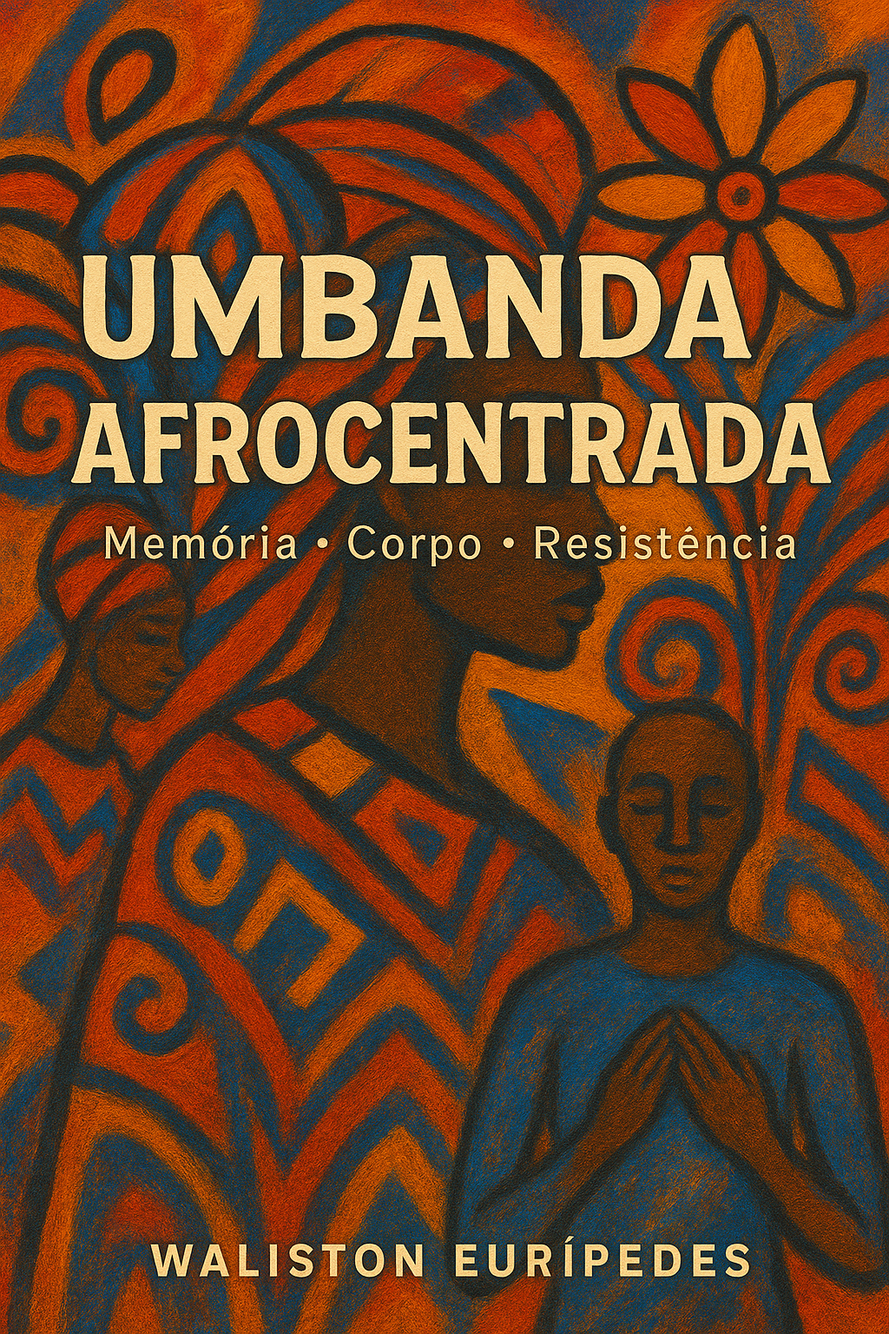
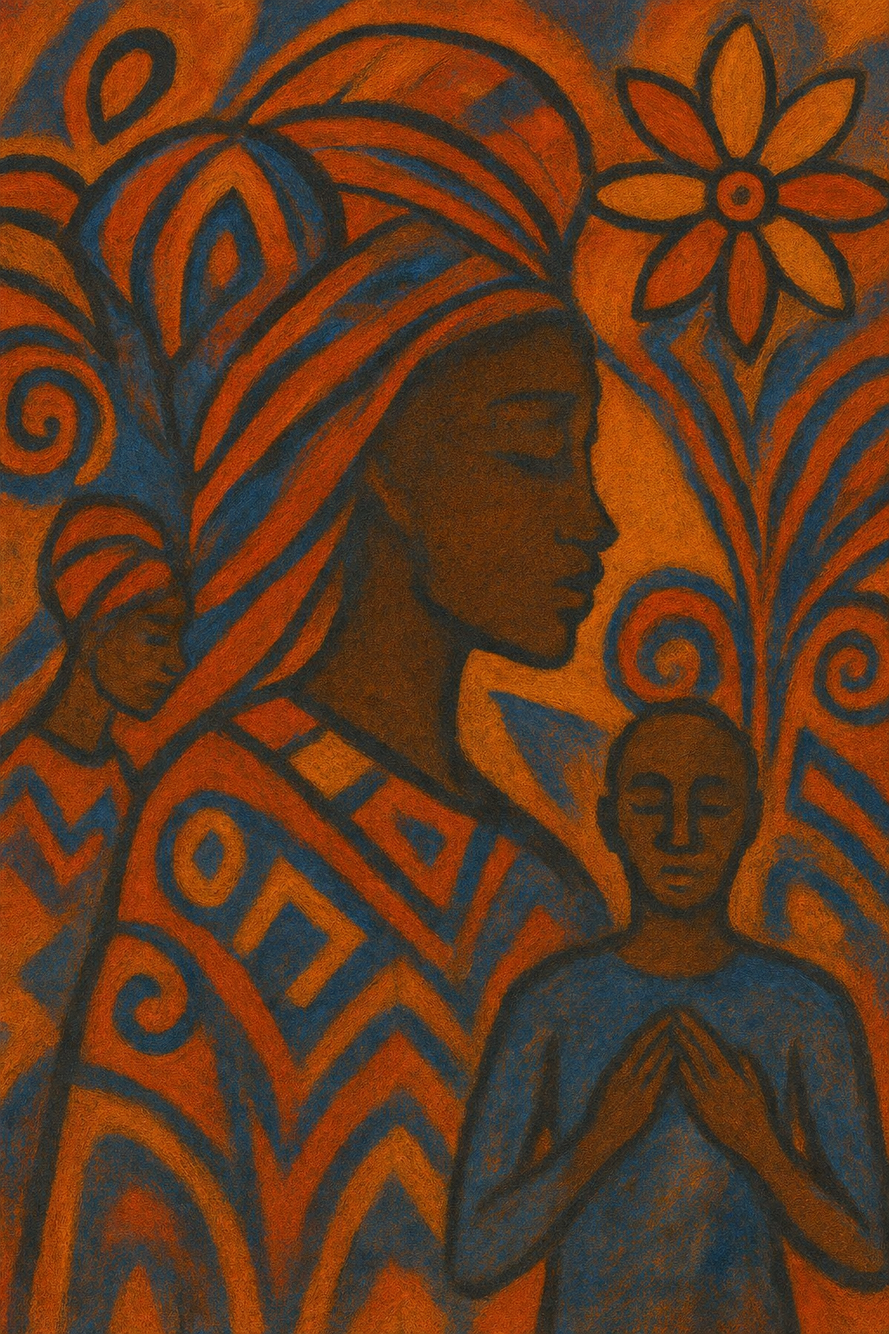
update front mobile

diff --git a/index.html b/index.html
@@ -10,8 +10,8 @@
     <header>
       <div class="container">
         <div class="header-content">
-          <div class="logo">UMBANDA <span>AFROCENTRADA</span></div>
-          <div class="logo">MEMÓRIA • CORPO • RESISTÊNCIA</div>
+          <div class="logo s1">UMBANDA <span>AFROCENTRADA</span></div>
+          <div class="logo s2">MEMÓRIA • CORPO • RESISTÊNCIA</div>
         </div>
       </div>
     </header>
@@ -119,46 +119,12 @@
                 </div>
               </section>
 
-              <div class="links-section">
-                  <div class="link-card">
-                    <div class="link-icon">💳</div>
-                    <h4 class="link-title">COMPRE COM CARTÃO</h4>
-                    <p class="link-desc">
-                      Adquira o livro completo em formato digital com pagamento
-                      por cartão de crédito
-                    </p>
-                    <a
-                      href="https://wesantos.gumroad.com/l/crlgpf"
-                      class="btn"
-                      id="cartao-btn"
-                      target="_blank"
-                      >COMPRAR AGORA</a
-                    >
-                  </div>
-
-                  <div class="link-card">
-                    <div class="link-icon">🧧</div>
-                    <h4 class="link-title">PAGUE COM PIX</h4>
-                    <p class="link-desc">
-                      Adquira o livro completo em formato digital com pagamento
-                      via PIX
-                    </p>
-                    <a
-                      href="https://wa.me/55981238107?text=Olá!%20Vim%20pelo%20Linktree%20para%20comprar%20o%20livro%20Umbanda%20Afrocentrada%20(R$%2030)."
-                      class="btn btn-secondary"
-                      id="pix-btn"
-                      target="_blank"
-                      >GERAR PIX</a
-                    >
-                  </div>
-                </div>
-              </div>
             </div>
           </div>
         </div>
       </section>
 
-      <div class="container">
+      <div class="container quote-container">
         <div class="quote">
           <p>"A Umbanda não nasceu branca. Ela foi embranquecida."</p>
           <p>"Não nasceu pacífica. Foi domesticada."</p>
@@ -173,9 +139,7 @@
         <p>UMBANDA AFROCENTRADA: Memória • Corpo • Resistência</p>
         <p>© 2023 Waliston Eurípedes. Todos os direitos reservados.</p>
         <div class="footer-links">
-          <a href="#">Política de Privacidade</a>
-          <a href="#">Termos de Uso</a>
-          <a href="mailto:contato@umbandaafrocentrada.com">Contato</a>
+          <a href="mailto:umbanda.afrocentrada@gmail.com">Contato</a>
         </div>
       </div>
     </footer>

diff --git a/style/style.css b/style/style.css
@@ -28,16 +28,12 @@ body::before {
   left: 0;
   width: 100%;
   height: 100%;
-  background-image: radial-gradient(
-      circle at 20% 30%,
+  background-image: radial-gradient(circle at 20% 30%,
       rgba(212, 175, 55, 0.05) 0%,
-      transparent 20%
-    ),
-    radial-gradient(
-      circle at 80% 70%,
+      transparent 20%),
+    radial-gradient(circle at 80% 70%,
       rgba(139, 0, 0, 0.05) 0%,
-      transparent 20%
-    );
+      transparent 20%);
   z-index: -1;
 }
 
@@ -332,7 +328,11 @@ footer {
 /* Responsive */
 @media (max-width: 768px) {
   .book-title {
-    font-size: 2.0rem;
+    font-size: 1.6rem;
+  }
+
+  .book-subtitle {
+    font-size: 1rem;
   }
 
   .hero {
@@ -345,9 +345,48 @@ footer {
   }
 
   .logo {
-  font-size: 17px;
-  font-weight: bold;
-  color: var(--secondary);
-  letter-spacing: 1px;
-}
+    font-size: 17px;
+    font-weight: bold;
+    color: var(--secondary);
+    letter-spacing: 1px;
+  }
+
+  .header-content .s1 {
+    font-size: 1rem;
+  }
+
+  .header-content .s2 {
+    font-size: 0.7rem;
+  }
+
+  .book-content .author {
+    font-size: 1rem;
+  }
+
+  .description p {
+    font-size: 1rem;
+  }
+
+  .details-column h3 {
+    font-size: 0.9rem;
+  }
+
+  .details-column li {
+    font-size: 0.9rem;
+  }
+
+  .details-title {
+    font-size: 1.5rem;
+
+  }
+
+  .quote p{
+    font-size: 1rem;
+
+  }
+
+  .quote-container {
+    top: -40px;
+    position: relative;
+  }
 }
